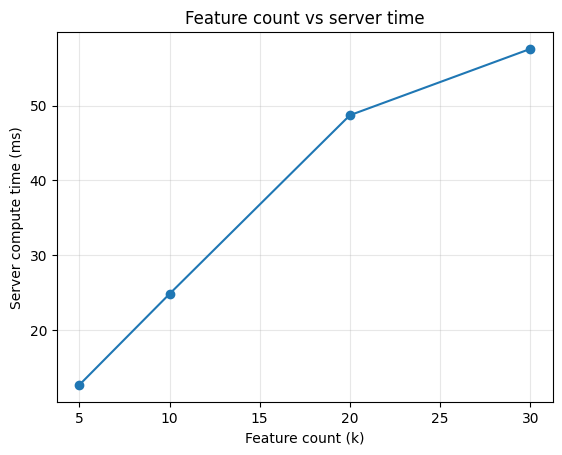
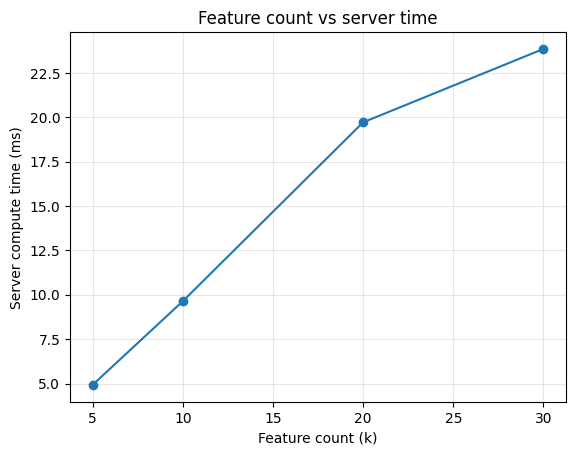
Create environment info script

diff --git a/experiments/00_environment_info.py b/experiments/00_environment_info.py
@@ -1,0 +1,79 @@
+"""Experiment 00: Collect execution environment metadata for benchmarks."""
+
+from __future__ import annotations
+
+import json
+import logging
+import os
+import platform
+import sys
+from importlib import metadata
+from pathlib import Path
+
+from app.config import KEY_LENGTH, N_BENCHMARK_RUNS, SCALE
+
+logger = logging.getLogger(__name__)
+logging.basicConfig(level=logging.INFO)
+
+TABLES_DIR = Path("results/tables")
+ENVIRONMENT_PATH = TABLES_DIR / "environment.json"
+
+
+def _get_cpu_model() -> str:
+    """Return CPU model string from /proc/cpuinfo or platform fallback."""
+    cpuinfo_path = Path("/proc/cpuinfo")
+    if cpuinfo_path.exists():
+        for line in cpuinfo_path.read_text(encoding="utf-8", errors="ignore").splitlines():
+            if line.lower().startswith("model name"):
+                _, value = line.split(":", maxsplit=1)
+                return value.strip()
+    return platform.processor() or "unknown"
+
+
+def _get_ram_info() -> str:
+    """Return RAM size in GiB for Linux; otherwise manual placeholder."""
+    if os.name == "nt":
+        return "fill manually"
+
+    if (
+        hasattr(os, "sysconf")
+        and "SC_PAGE_SIZE" in os.sysconf_names
+        and "SC_PHYS_PAGES" in os.sysconf_names
+    ):
+        page_size = os.sysconf("SC_PAGE_SIZE")
+        phys_pages = os.sysconf("SC_PHYS_PAGES")
+        total_bytes = page_size * phys_pages
+        total_gib = total_bytes / (1024**3)
+        return f"{total_gib:.2f} GiB"
+
+    return "fill manually"
+
+
+def _get_phe_version() -> str:
+    """Return installed phe package version or a readable fallback."""
+    try:
+        return metadata.version("phe")
+    except metadata.PackageNotFoundError:
+        return "not installed"
+
+
+def main() -> None:
+    """Collect and persist environment metadata for experiment reproducibility."""
+    payload = {
+        "cpu": _get_cpu_model(),
+        "ram": _get_ram_info(),
+        "os": platform.platform(),
+        "python_version": sys.version,
+        "key_library": {"name": "phe", "version": _get_phe_version()},
+        "scale": SCALE,
+        "key_length": KEY_LENGTH,
+        "benchmark_runs": N_BENCHMARK_RUNS,
+    }
+
+    TABLES_DIR.mkdir(parents=True, exist_ok=True)
+    ENVIRONMENT_PATH.write_text(json.dumps(payload, ensure_ascii=False, indent=2), encoding="utf-8")
+    logger.info("Saved environment metadata to %s", ENVIRONMENT_PATH)
+
+
+if __name__ == "__main__":
+    main()

diff --git a/docs/experiment_protocol.md b/docs/experiment_protocol.md
@@ -240,6 +240,13 @@
 
 Все эксперименты проводятся в одинаковом программном окружении (Docker-контейнер), чтобы обеспечить воспроизводимость. Характеристики хостовой машины (CPU, RAM) фиксируются в отчёте. Для замеров используются только CPU-операции (без GPU).
 
+Перед основными экспериментами запускается `experiments/00_environment_info.py`, который сохраняет параметры окружения в `results/tables/environment.json`:
+- CPU и ОС;
+- объём RAM (автоматически на Linux, иначе поле для ручного заполнения);
+- версия Python;
+- версия ключевой криптобиблиотеки `phe`;
+- текущие значения `SCALE`, `KEY_LENGTH`, `N_BENCHMARK_RUNS` из `app/config.py`.
+
 ## Критерии успешности
 
 - Качество модели на PHE совпадает с baseline (match rate ≥ 99%).